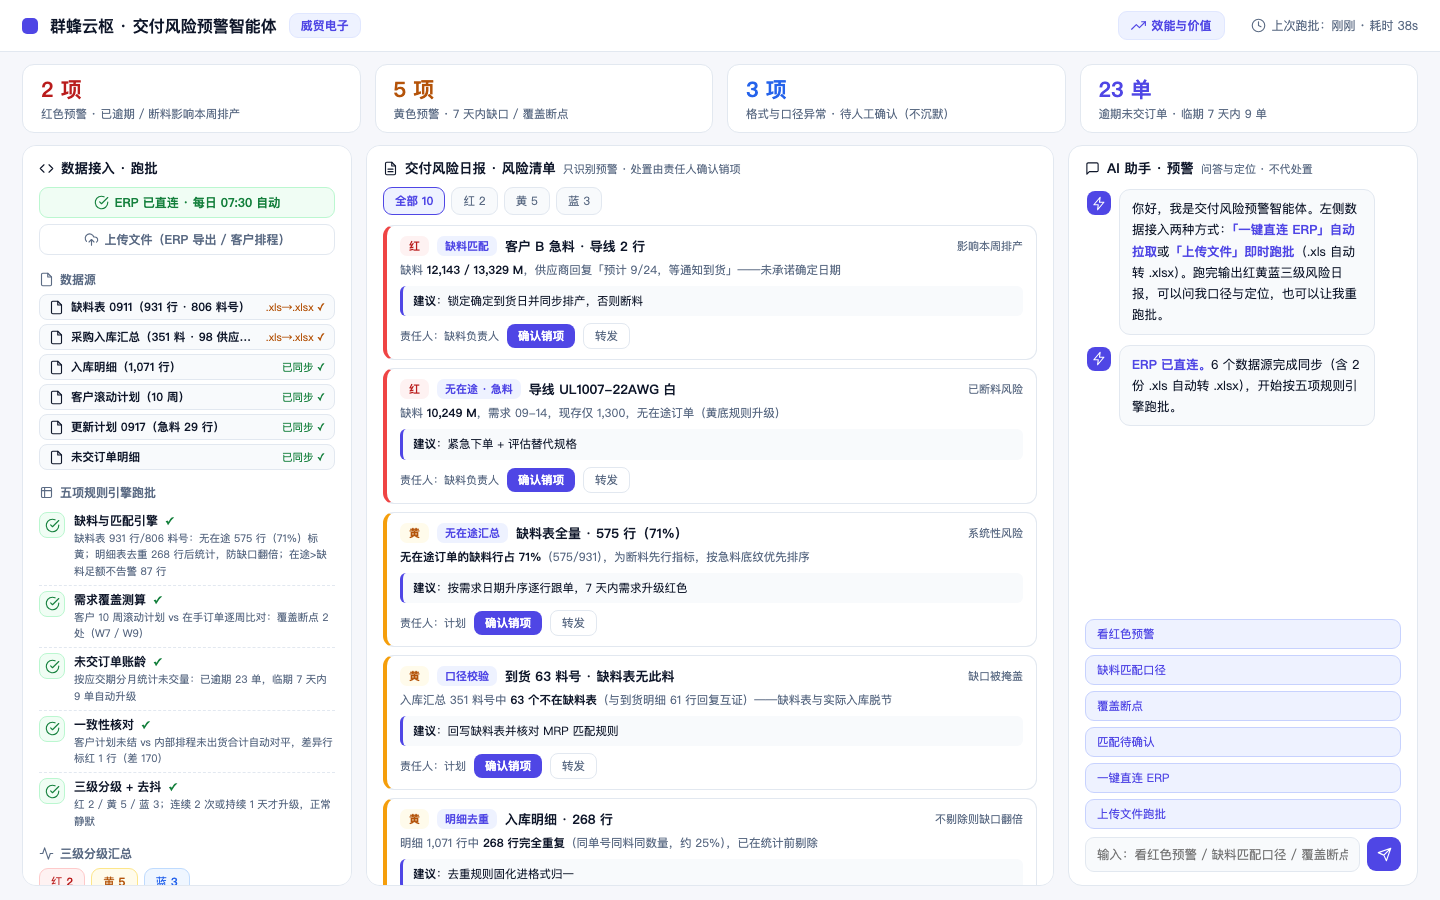
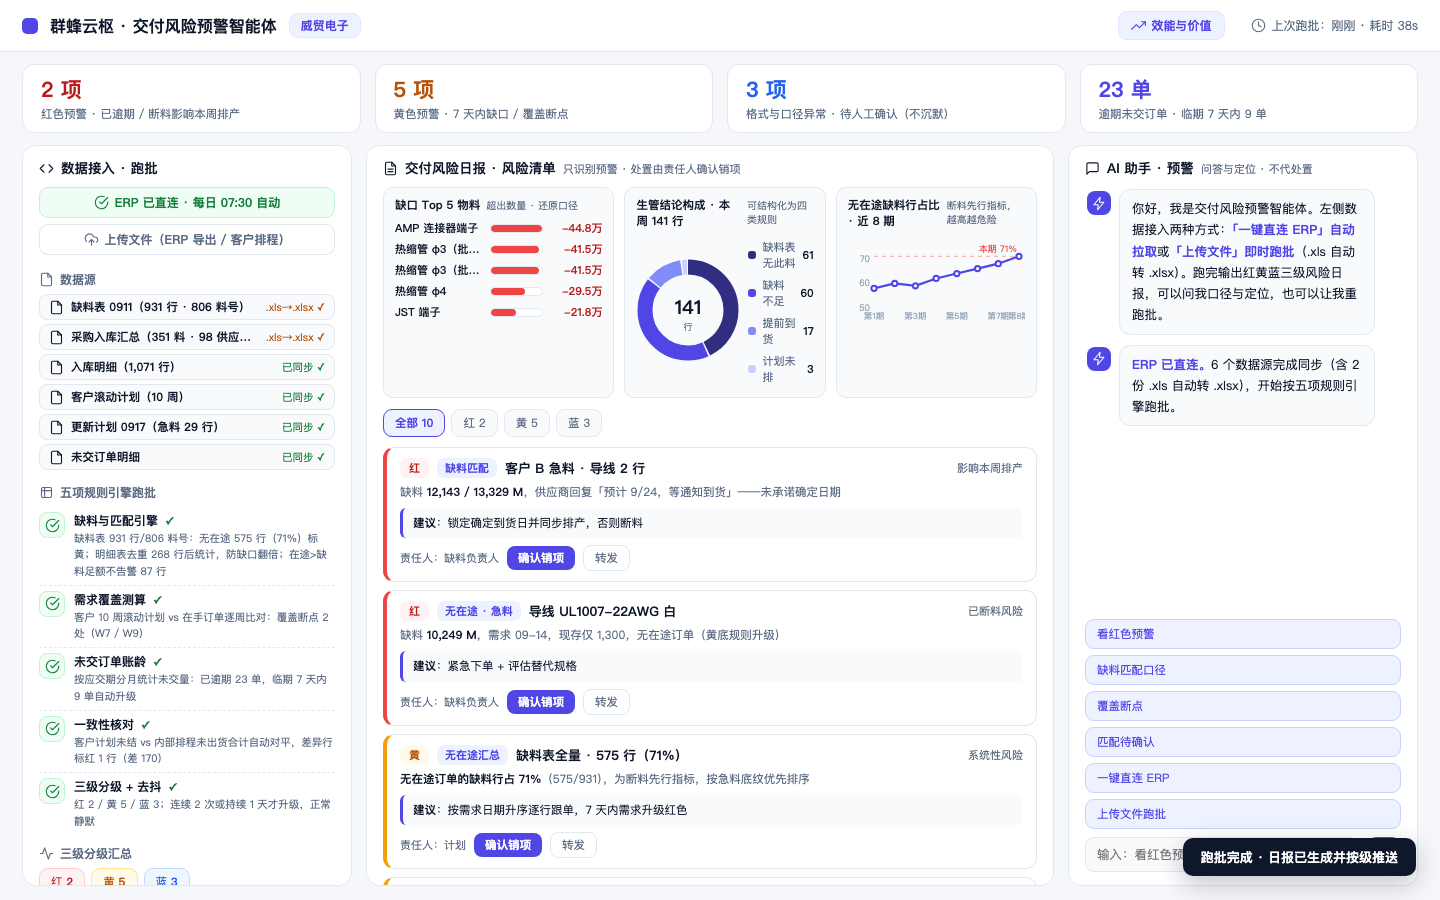
feat(demos): scenario-3 交付风险日报新增三图可视化 — 缺口Top5横条/生管结论环形/无在途占比趋势（真实样本口径脱敏）

diff --git a/demos/scenario-3-delivery.html b/demos/scenario-3-delivery.html
@@ -98,6 +98,22 @@ body{background:var(--bg);color:var(--tx);height:100vh;display:flex;flex-directi
 .oneline .ic{color:var(--ac);margin-top:2px}
 .oneline b{color:var(--ac)}
 .dfoot{font-size:10.5px;color:#94A3B8;line-height:1.6;margin-top:auto;padding-top:8px}
+/* 日报图表 */
+.charts{display:grid;grid-template-columns:1.15fr 1fr 1fr;gap:10px;margin-bottom:11px}
+.chart{background:var(--pan2);border:1px solid var(--bd);border-radius:10px;padding:9px 11px;min-width:0}
+.chart h6{font-size:11.5px;font-weight:700;display:flex;align-items:baseline;gap:6px;margin-bottom:7px}
+.chart h6 em{font-style:normal;font-size:10px;color:var(--mut);font-weight:400}
+.hbar{display:flex;align-items:center;gap:7px;font-size:11px;margin-bottom:5px}
+.hbar b{width:88px;font-weight:500;color:var(--tx);white-space:nowrap;overflow:hidden;text-overflow:ellipsis}
+.hbar .tr{flex:1;height:9px;background:#fff;border:1px solid var(--bd);border-radius:5px;overflow:hidden}
+.hbar .tr i{display:block;height:100%;background:#EF4444;border-radius:5px}
+.hbar .v{width:52px;text-align:right;color:var(--bad);font-weight:600;flex:none}
+.dwrap2{display:flex;align-items:center;gap:8px}
+.dl2{flex:1;font-size:11px}
+.dl2 div{display:flex;align-items:center;gap:6px;padding:3px 0}
+.dl2 i{width:8px;height:8px;border-radius:3px;flex:none}
+.dl2 span{color:var(--mut)}
+.dl2 b{margin-left:auto;color:var(--tx)}
 /* AI */
 .aiwrap{flex:1;display:flex;flex-direction:column;min-height:0}
 .msgs{flex:1;overflow:auto;padding:2px 2px 8px;min-height:0}
@@ -158,6 +174,11 @@ body{background:var(--bg);color:var(--tx);height:100vh;display:flex;flex-directi
 
 <div class="panel mid">
 <h3><svg class="ic" viewBox="0 0 24 24"><path d="M14 2H6a2 2 0 0 0-2 2v16a2 2 0 0 0 2 2h12a2 2 0 0 0 2-2V8z"/><path d="M14 2v6h6M16 13H8M16 17H8"/></svg>交付风险日报 · 风险清单<em>只识别预警 · 处置由责任人确认销项</em></h3>
+<div class="charts">
+<div class="chart"><h6>缺口 Top 5 物料<em>超出数量 · 还原口径</em></h6><div id="chGap"></div></div>
+<div class="chart"><h6>生管结论构成 · 本周 141 行<em>可结构化为四类规则</em></h6><div class="dwrap2"><div id="chDonut"></div><div class="dl2" id="chGen"></div></div></div>
+<div class="chart"><h6>无在途缺料行占比 · 近 8 期<em>断料先行指标，越高越危险</em></h6><svg id="chTrend" width="100%" height="86"></svg></div>
+</div>
 <div class="fbar" id="fbar"></div>
 <div id="rlist"></div>
 <div class="dstrip"><svg class="ic" viewBox="0 0 24 24"><path d="M3 8l7.89 5.26a2 2 0 0 0 2.22 0L21 8M5 19h14a2 2 0 0 0 2-2V7a2 2 0 0 0-2-2H5a2 2 0 0 0-2 2v10a2 2 0 0 0 2 2z"/></svg><span><b>《交付风险日报》已生成</b> · 红级即时推送：缺料负责人（断料）、排程负责人（差异）· 黄级推送销售（覆盖断点）· 周报沉淀缺料趋势与逾期消化进度</span></div>
@@ -241,6 +262,28 @@ function closeRisk(btn,obj){const r=RISKS.find(x=>x.obj===obj);if(r)r.done=true;
  btn.outerHTML='<span class="okmark">✓ 已销项 · 次日跑批自动复核</span>';
  toast("已销项 · 明日跑批自动复核，未销项持续升级")}
 
+/* ─── 日报图表（真实样本口径 · 脱敏）─── */
+const GAP_TOP=[["AMP 连接器端子",-447611],["热缩管 φ3（批次1）",-415055],["热缩管 φ3（批次2）",-415028],["热缩管 φ4",-295473],["JST 端子",-217504]];
+const GEN_CONC=[["缺料表无此料",61,"#312E81"],["缺料不足",60,"#4F46E5"],["提前到货",17,"#818CF8"],["计划未排",3,"#C7D2FE"]];
+const NO_TR=[58,60,59,62,64,66,68,71];
+function renderCharts(){
+ const mx=Math.abs(GAP_TOP[GAP_TOP.length-1][1]);
+ document.getElementById("chGap").innerHTML=GAP_TOP.map(g=>`<div class="hbar" title="${g[0]} 超出数量 ${g[1]}"><b>${g[0]}</b><div class="tr"><i style="width:${Math.abs(g[1])/Math.abs(GAP_TOP[0][1])*100}%"></i></div><span class="v">${(g[1]/10000).toFixed(1)}万</span></div>`).join("");
+ const S=104,R=S/2-9,C=2*Math.PI*R,cx=S/2,cy=S/2,tot=GEN_CONC.reduce((s,g)=>s+g[1],0);
+ let off=0,donut=`<svg width="${S}" height="${S}" viewBox="0 0 ${S} ${S}">`;
+ GEN_CONC.forEach(g=>{const len=C*g[1]/tot;
+  donut+=`<circle cx="${cx}" cy="${cy}" r="${R}" fill="none" stroke="${g[2]}" stroke-width="15" stroke-dasharray="${len-1.5} ${C-len+1.5}" stroke-dashoffset="${-off}" transform="rotate(-90 ${cx} ${cy})"><title>${g[0]} ${g[1]} 行</title></circle>`;off+=len});
+ donut+=`<g transform="translate(${cx},${cy})" style="pointer-events:none"><text text-anchor="middle" y="4" font-size="19" font-weight="700" fill="#0F172A">${tot}</text><text text-anchor="middle" y="20" font-size="9" fill="#5B6B84">行</text></g></svg>`;
+ document.getElementById("chDonut").innerHTML=donut;
+ document.getElementById("chGen").innerHTML=GEN_CONC.map(g=>`<div><i style="background:${g[2]}"></i><span>${g[0]}</span><b>${g[1]}</b></div>`).join("");
+ const svg=document.getElementById("chTrend");const W=svg.clientWidth||220,H=86,P={l:26,b:14,t:8},lo=50,hi=76;
+ const x=i=>P.l+i*(W-P.l-6)/7,y=v=>P.t+(H-P.t-P.b)*(1-(v-lo)/(hi-lo));
+ let s=`<line x1="${P.l}" y1="${y(71)}" x2="${W-6}" y2="${y(71)}" stroke="#FCA5A5" stroke-dasharray="4 4"/><text x="${W-8}" y="${y(71)-4}" font-size="9" fill="#EF4444" text-anchor="end">本期 71%</text>`;
+ [50,60,70].forEach(t=>{s+=`<text x="${P.l-4}" y="${y(t)+3}" font-size="9" fill="#94A3B8" text-anchor="end">${t}</text>`});
+ s+=`<polyline points="${NO_TR.map((v,i)=>x(i)+","+y(v)).join(" ")}" fill="none" stroke="#4F46E5" stroke-width="2.2" stroke-linecap="round"/>`;
+ s+=NO_TR.map((v,i)=>`<circle cx="${x(i)}" cy="${y(v)}" r="2.6" fill="#fff" stroke="#4F46E5" stroke-width="2"/>${i%2===0||i===7?`<text x="${x(i)}" y="${H-3}" font-size="8.5" fill="#94A3B8" text-anchor="middle">第${i+1}期</text>`:""}`).join("");
+ svg.innerHTML=s}
+
 /* ─── AI 对话 ─── */
 function pushMsg(cls,html){const box=document.getElementById("msgs");const d=document.createElement("div");d.className="msg "+cls;
  d.innerHTML=(cls==="ai"?`<div class="av"><svg class="ic" viewBox="0 0 24 24"><path d="M13 2L3 14h7l-1 8 10-12h-7l1-8z"/></svg></div>`:"")+`<div class="bub">${html}</div>`;
@@ -278,7 +321,8 @@ document.addEventListener("click",e=>{const p=document.getElementById("vpop");
  if(p&&p.style.display==="block"&&!p.contains(e.target)&&!e.target.closest(".valbtn"))p.style.display="none"});
 function toast(t){const el=document.getElementById("toast");el.textContent=t;el.style.display="block";
  clearTimeout(toast._t);toast._t=setTimeout(()=>el.style.display="none",2400)}
-renderSrcs();renderStages(0);renderList();
+renderSrcs();renderStages(0);renderList();renderCharts();
+window.addEventListener("resize",renderCharts);
 pushMsg("ai","你好，我是交付风险预警智能体。左侧数据接入两种方式：<b>「一键直连 ERP」自动拉取</b>或<b>「上传文件」即时跑批</b>（.xls 自动转 .xlsx）。跑完输出红黄蓝三级风险日报，可以问我口径与定位，也可以让我重跑批。");
 setTimeout(()=>{connectERP()},800);
 </script></body></html>
